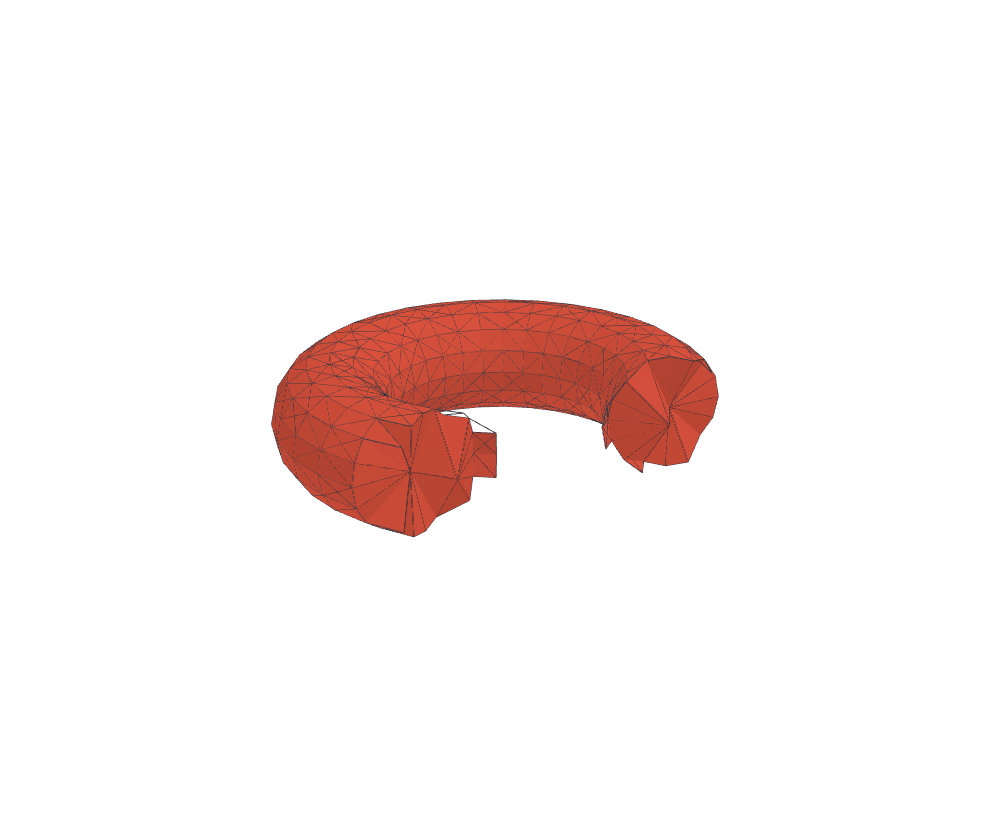
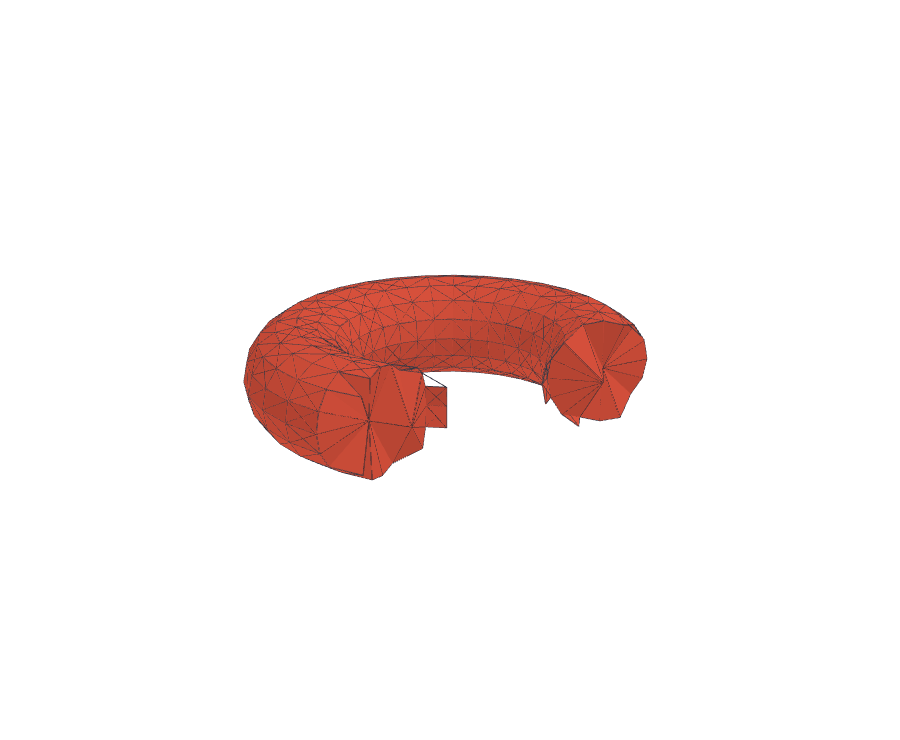
API: getrennte Fehlerschranken tol_edge/tol_surf (rel. Sagitta, Default 1e-2) und per-Dimension maxh_edge/maxh_surf/maxh_vol -- ersetzt surface_deflection; Python-settable; wirksam (Box maxh_surf/vol, Zylinder-tol verifiziert)

Changed region(s): [[0.2489, 0.3419, 0.7156, 0.6527], [0.6222, 0.5595, 0.6533, 0.5905]]

diff --git a/crates/rapidmesh-tet/src/conform.rs b/crates/rapidmesh-tet/src/conform.rs
@@ -245,12 +245,23 @@ pub struct MeshParams {
     /// gradient. Off by default (it shifts sites near curved boundaries, which
     /// the exact-volume fixtures cannot absorb); on for adaptive meshes.
     pub density_weighted: bool,
-    /// Surface sagitta deflection bound (relative): a curved facet edge of
-    /// length `h` on a surface of principal radius `R` deviates by `~ h^2/(8R)`;
-    /// bounding the RELATIVE sagitta `eps/R <= this` sizes curved surfaces by
-    /// `h = R * sqrt(8 * this)`, scale-invariant (constant facets per arc). The
-    /// normalized error knob replacing the old magic chord fraction.
-    pub surface_deflection: f64,
+    /// Relative chord (sagitta) tolerance for curved EDGES: a curve of radius `R`
+    /// is sampled at `h = R*sqrt(8*tol_edge)`, so the chord deviates by at most
+    /// `tol_edge * R`. Scale-invariant (constant segments per arc). Default 1e-2.
+    pub tol_edge: f64,
+    /// Relative chord (sagitta) tolerance for curved SURFACES, the 2D analogue of
+    /// [`MeshParams::tol_edge`]: a facet on a surface of principal radius `R` is
+    /// sized `h = R*sqrt(8*tol_surf)`. Default 1e-2. (There is no volume
+    /// tolerance: the volume size follows from the surface.)
+    pub tol_surf: f64,
+    /// Maximum element edge length on EDGES (1-cells), combined with the global
+    /// [`MeshParams::maxh`] as `min(maxh, maxh_edge)`. `INFINITY` = no extra cap.
+    pub maxh_edge: f64,
+    /// Maximum element edge length on SURFACES (2-cells); `min(maxh, maxh_surf)`.
+    pub maxh_surf: f64,
+    /// Maximum element edge length in the VOLUME (3-cells); `min(maxh, maxh_vol)`.
+    /// Per-region overrides come from [`MeshParams::region_maxh`].
+    pub maxh_vol: f64,
 }
 
 impl Default for MeshParams {
@@ -265,8 +276,28 @@ impl Default for MeshParams {
             surface_maxh: Vec::new(),
             size_points: Vec::new(),
             density_weighted: false,
-            surface_deflection: 0.02,
+            tol_edge: 1e-2,
+            tol_surf: 1e-2,
+            maxh_edge: f64::INFINITY,
+            maxh_surf: f64::INFINITY,
+            maxh_vol: f64::INFINITY,
         }
+    }
+}
+
+impl MeshParams {
+    /// Effective edge-length cap on 1-cells: the global cap tightened by the
+    /// per-dimension edge cap.
+    pub fn edge_cap(&self) -> f64 {
+        self.maxh.min(self.maxh_edge)
+    }
+    /// Effective edge-length cap on 2-cells (surfaces).
+    pub fn surf_cap(&self) -> f64 {
+        self.maxh.min(self.maxh_surf)
+    }
+    /// Effective edge-length cap in the 3-cell (volume).
+    pub fn vol_cap(&self) -> f64 {
+        self.maxh.min(self.maxh_vol)
     }
 }
 

diff --git a/python/python_src/rapidmesh/geometry.py b/python/python_src/rapidmesh/geometry.py
@@ -802,7 +802,11 @@ class Geometry:
         max_points: int = 500_000,
         grading: float | None = None,
         density_weighted: bool = False,
-        surface_deflection: float = 0.02,
+        tol_edge: float = 1e-2,
+        tol_surf: float = 1e-2,
+        maxh_edge: float = math.inf,
+        maxh_surf: float = math.inf,
+        maxh_vol: float = math.inf,
     ) -> Mesh:
         """Assembles the exact conforming arrangement of every solid and
         sheet, meshes it, and runs quality optimization.
@@ -827,11 +831,16 @@ class Geometry:
             sizing field settles into a smooth gradient. Off by default (it
             shifts sites near curved boundaries, which the exact-volume path
             cannot absorb); enable for adaptive (curvature/error-bound) meshes.
-        surface_deflection : float
-            relative sagitta error bound for curved surfaces: a curved facet of
-            radius ``R`` is sized ``h = R * sqrt(8 * surface_deflection)``, so
-            the chord deviates by at most ``surface_deflection * R``. Smaller =
-            finer curved surfaces (scale-invariant, ~constant facets per arc).
+        tol_edge, tol_surf : float
+            relative chord (sagitta) tolerance for curved EDGES and SURFACES: an
+            entity of radius ``R`` is sized ``h = R * sqrt(8 * tol)``, so the
+            chord deviates by at most ``tol * R`` (scale-invariant, ~constant
+            facets per arc). Default 1e-2 (1%); 1e-4 is very fine. There is no
+            volume tolerance: the volume size follows from the surface.
+        maxh_edge, maxh_surf, maxh_vol : float
+            maximum element edge length per dimension (edges / surfaces /
+            volume), each combined with ``maxh`` as ``min(maxh, maxh_dim)``.
+            Default ``inf`` (only ``maxh`` applies).
         """
         h = maxh if maxh is not None else self._maxh
         g = grading if grading is not None else self._grading
@@ -844,7 +853,11 @@ class Geometry:
             [(list(pt), ph) for pt, ph in self._size_points],
             [(s, sh) for s, sh in sorted(self._surface_maxh.items())],
             density_weighted,
-            surface_deflection,
+            tol_edge,
+            tol_surf,
+            maxh_edge,
+            maxh_surf,
+            maxh_vol,
         )
         solids = [
             {"region": r, "label": self._solid_labels.get(i)}
@@ -857,6 +870,11 @@ class Geometry:
         *,
         maxh: float | None = None,
         grading: float | None = None,
+        tol_edge: float = 1e-2,
+        tol_surf: float = 1e-2,
+        maxh_edge: float = math.inf,
+        maxh_surf: float = math.inf,
+        maxh_vol: float = math.inf,
     ) -> SurfaceMesh:
         """Surface-only export: assembles the exact arrangement and meshes
         only its boundary surface (region interfaces, outer boundary, embedded
@@ -880,6 +898,11 @@ class Geometry:
             [(t, fh) for t, fh in sorted(self._face_maxh.items())],
             [(list(pt), ph) for pt, ph in self._size_points],
             [(s, sh) for s, sh in sorted(self._surface_maxh.items())],
+            tol_edge,
+            tol_surf,
+            maxh_edge,
+            maxh_surf,
+            maxh_vol,
         )
         solids = [
             {"region": r, "label": self._solid_labels.get(i)}

diff --git a/python/src/lib.rs b/python/src/lib.rs
@@ -320,7 +320,7 @@ impl SceneBuilder {
 
     /// Runs assembly, meshing, and optimization; returns the mesh.
     #[allow(clippy::too_many_arguments)]
-    #[pyo3(signature = (maxh, radius_edge, max_points, grading, face_maxh=vec![], size_points=vec![], surface_maxh=vec![], density_weighted=false, surface_deflection=0.02))]
+    #[pyo3(signature = (maxh, radius_edge, max_points, grading, face_maxh=vec![], size_points=vec![], surface_maxh=vec![], density_weighted=false, tol_edge=1e-2, tol_surf=1e-2, maxh_edge=f64::INFINITY, maxh_surf=f64::INFINITY, maxh_vol=f64::INFINITY))]
     fn mesh(
         &self,
         py: Python<'_>,
@@ -332,7 +332,11 @@ impl SceneBuilder {
         size_points: Vec<([f64; 3], f64)>,
         surface_maxh: Vec<(u32, f64)>,
         density_weighted: bool,
-        surface_deflection: f64,
+        tol_edge: f64,
+        tol_surf: f64,
+        maxh_edge: f64,
+        maxh_surf: f64,
+        maxh_vol: f64,
     ) -> PyMesh {
         let t0 = std::time::Instant::now();
         let timing = std::env::var_os("RAPIDMESH_TIMING").is_some();
@@ -353,7 +357,11 @@ impl SceneBuilder {
                 surface_maxh,
                 size_points,
                 density_weighted,
-                surface_deflection,
+                tol_edge,
+                tol_surf,
+                maxh_edge,
+                maxh_surf,
+                maxh_vol,
             };
             let tm = std::time::Instant::now();
             // Opt-in to the new boundary-constrained Stage-3 pipeline for
@@ -433,7 +441,7 @@ impl SceneBuilder {
     /// Returns just the closed boundary surface mesh. Volume-only params
     /// (`radius_edge`, `max_points`) do not apply.
     #[allow(clippy::too_many_arguments)]
-    #[pyo3(signature = (maxh, grading, face_maxh=vec![], size_points=vec![], surface_maxh=vec![]))]
+    #[pyo3(signature = (maxh, grading, face_maxh=vec![], size_points=vec![], surface_maxh=vec![], tol_edge=1e-2, tol_surf=1e-2, maxh_edge=f64::INFINITY, maxh_surf=f64::INFINITY, maxh_vol=f64::INFINITY))]
     fn surface_mesh(
         &self,
         py: Python<'_>,
@@ -442,6 +450,11 @@ impl SceneBuilder {
         face_maxh: Vec<(u32, f64)>,
         size_points: Vec<([f64; 3], f64)>,
         surface_maxh: Vec<(u32, f64)>,
+        tol_edge: f64,
+        tol_surf: f64,
+        maxh_edge: f64,
+        maxh_surf: f64,
+        maxh_vol: f64,
     ) -> PySurfaceMesh {
         let t0 = std::time::Instant::now();
         rapidmesh_exact::log::clear();
@@ -457,7 +470,11 @@ impl SceneBuilder {
                 surface_maxh,
                 size_points,
                 density_weighted: false,
-                surface_deflection: 0.02,
+                tol_edge,
+                tol_surf,
+                maxh_edge,
+                maxh_surf,
+                maxh_vol,
             };
             surface_mesh(&plc, &params)
         });

diff --git a/crates/rapidmesh-tet/tests/conform.rs b/crates/rapidmesh-tet/tests/conform.rs
@@ -176,7 +176,11 @@ fn sized_box_respects_maxh_and_quality() {
         surface_maxh: Vec::new(),
         size_points: Vec::new(),
         density_weighted: false,
-        surface_deflection: 0.02,
+        tol_edge: 1e-2,
+        tol_surf: 1e-2,
+        maxh_edge: f64::INFINITY,
+        maxh_surf: f64::INFINITY,
+        maxh_vol: f64::INFINITY,
     };
     let mut mesh = mesh_plc_with(&plc, &params);
     let before = quality_stats(&mesh);
@@ -232,7 +236,11 @@ fn sized_em_scene_stays_exact_and_conforming() {
         surface_maxh: Vec::new(),
         size_points: Vec::new(),
         density_weighted: false,
-        surface_deflection: 0.02,
+        tol_edge: 1e-2,
+        tol_surf: 1e-2,
+        maxh_edge: f64::INFINITY,
+        maxh_surf: f64::INFINITY,
+        maxh_vol: f64::INFINITY,
     };
     let mut mesh = mesh_plc_with(&plc, &params);
     let before = quality_stats(&mesh);
@@ -279,7 +287,11 @@ fn per_region_sizing_creates_density_transition() {
         surface_maxh: Vec::new(),
         size_points: Vec::new(),
         density_weighted: false,
-        surface_deflection: 0.02,
+        tol_edge: 1e-2,
+        tol_surf: 1e-2,
+        maxh_edge: f64::INFINITY,
+        maxh_surf: f64::INFINITY,
+        maxh_vol: f64::INFINITY,
     };
     let mut mesh = mesh_plc_with(&plc, &params);
     optimize(
@@ -490,7 +502,11 @@ fn size_points_refine_locally() {
         maxh: 1.5,
         size_points: vec![([2.0, 2.0, 2.0], 0.2)],
         density_weighted: false,
-        surface_deflection: 0.02,
+        tol_edge: 1e-2,
+        tol_surf: 1e-2,
+        maxh_edge: f64::INFINITY,
+        maxh_surf: f64::INFINITY,
+        maxh_vol: f64::INFINITY,
         grading: 0.5,
         ..MeshParams::default()
     };

diff --git a/crates/rapidmesh/src/bin/bench.rs b/crates/rapidmesh/src/bin/bench.rs
@@ -116,7 +116,11 @@ fn main() {
             surface_maxh: Vec::new(),
             size_points: Vec::new(),
             density_weighted: false,
-            surface_deflection: 0.02,
+            tol_edge: 1e-2,
+            tol_surf: 1e-2,
+            maxh_edge: f64::INFINITY,
+            maxh_surf: f64::INFINITY,
+            maxh_vol: f64::INFINITY,
         };
         records.push(run_one(
             bs.name,
@@ -191,7 +195,11 @@ fn main() {
             surface_maxh: Vec::new(),
             size_points: Vec::new(),
             density_weighted: false,
-            surface_deflection: 0.02,
+            tol_edge: 1e-2,
+            tol_surf: 1e-2,
+            maxh_edge: f64::INFINITY,
+            maxh_surf: f64::INFINITY,
+            maxh_vol: f64::INFINITY,
         };
         records.push(run_one(
             &name,

diff --git a/crates/rapidmesh-tet/src/cvt.rs b/crates/rapidmesh-tet/src/cvt.rs
@@ -616,7 +616,7 @@ pub fn mesh(plc: &TaggedPlc, params: &MeshParams) -> TetMesh {
     let surf_pos: Vec<V3> = sites[..n_surf].iter().map(|s| s.pos()).collect();
     let vol_sources: Vec<(V3, f64)> =
         (0..n_surf).map(|i| (surf_pos[i], domain.h_at(surf_pos[i]).max(1e-9))).collect();
-    let vol_field = crate::sizefield::SizeField::new(vol_sources, grad, params.maxh);
+    let vol_field = crate::sizefield::SizeField::new(vol_sources, grad, params.vol_cap());
     // A per-region size cap: `region_maxh` is a region-WIDE size that the surface
     // field (which grows coarse from the boundary inward) does not enforce in the
     // interior, so cap the volume size by the region of the query point.
@@ -1005,7 +1005,7 @@ pub fn mesh_cdt(plc: &TaggedPlc, params: &MeshParams) -> TetMesh {
             .unwrap_or(params.maxh)
             .min(params.maxh)
     };
-    let hloc = |p: V3| domain.h_at(p).min(region_cap(domain.region_at(p))).max(1e-9);
+    let hloc = |p: V3| domain.h_at(p).min(region_cap(domain.region_at(p))).min(params.vol_cap()).max(1e-9);
     let step = (0.7 * spacing).max(1e-9);
     let span = [hi[0] - lo[0], hi[1] - lo[1], hi[2] - lo[2]];
     let ncell = (0.6 * spacing).max(1e-9);
@@ -1393,7 +1393,7 @@ pub fn surface_mesh(plc: &TaggedPlc, params: &MeshParams) -> SurfaceMesh {
         let inside2 =
             |uv: [f64; 2]| point_in_patch(plc, patch, &Point3::Explicit(lift3(uv, drop, p0, n)));
         let step = SURFACE_OVERSAMPLE * domain.finest();
-        let target = |uv: [f64; 2]| SURFACE_OVERSAMPLE * domain.h_at(lift3(uv, drop, p0, n));
+        let target = |uv: [f64; 2]| SURFACE_OVERSAMPLE * domain.h_at(lift3(uv, drop, p0, n)).min(params.surf_cap());
         for uv in cvt_fill(&loc2[..nb], lo2, hi2, step, target, SURF_LLOYD_ITERS, inside2, params.density_weighted) {
             points.push(lift3(uv, drop, p0, n));
             loc2.push(uv);
@@ -1501,7 +1501,7 @@ pub fn surface_mesh(plc: &TaggedPlc, params: &MeshParams) -> SurfaceMesh {
         // Curvature/volume-error bias: the finest curvature radius over the group
         // sets the grid step (so the scatter is fine enough to honor it); the
         // per-point target is the finer of the domain field and the curvature cap.
-        let chord = (8.0 * params.surface_deflection).sqrt();
+        let chord = (8.0 * params.tol_surf).sqrt();
         let hc_min = gverts
             .iter()
             .map(|&v| chart.curvature_radius(chart.to_uv(points[v])))
@@ -1512,7 +1512,7 @@ pub fn surface_mesh(plc: &TaggedPlc, params: &MeshParams) -> SurfaceMesh {
         let target = |uv: [f64; 2]| {
             let xyz = chart.to_xyz(uv);
             let hc = chart.curvature_radius(uv) * chord;
-            SURFACE_OVERSAMPLE * domain.h_at(xyz).min(hc)
+            SURFACE_OVERSAMPLE * domain.h_at(xyz).min(hc).min(params.surf_cap())
         };
         for uv in cvt_fill(&loc2[..nb], lo2, hi2, step, target, SURF_LLOYD_ITERS, inside2, params.density_weighted) {
             points.push(chart.to_xyz(uv));

diff --git a/crates/rapidmesh-tet/src/seed.rs b/crates/rapidmesh-tet/src/seed.rs
@@ -129,7 +129,11 @@ mod tests {
             surface_maxh: Vec::new(),
             size_points,
             density_weighted: false,
-            surface_deflection: 0.02,
+            tol_edge: 1e-2,
+            tol_surf: 1e-2,
+            maxh_edge: f64::INFINITY,
+            maxh_surf: f64::INFINITY,
+            maxh_vol: f64::INFINITY,
         }
     }
 

diff --git a/crates/rapidmesh/src/bin/export_meshes.rs b/crates/rapidmesh/src/bin/export_meshes.rs
@@ -27,7 +27,11 @@ fn main() {
             surface_maxh: Vec::new(),
             size_points: Vec::new(),
             density_weighted: false,
-            surface_deflection: 0.02,
+            tol_edge: 1e-2,
+            tol_surf: 1e-2,
+            maxh_edge: f64::INFINITY,
+            maxh_surf: f64::INFINITY,
+            maxh_vol: f64::INFINITY,
         };
         let mut mesh: TetMesh = mesh_plc_with(&plc, &params);
         let opt = OptimizeParams {

diff --git a/crates/rapidmesh-tet/src/brep_mesh.rs b/crates/rapidmesh-tet/src/brep_mesh.rs
@@ -395,7 +395,7 @@ pub fn surface_sites(
     // The geometry size field H (finite even when params.maxh is INFINITY -- it
     // falls back to diag/8). The surface is placed at OVERSAMPLE*H, the volume at
     // H, so the surface is finer than the volume (the conformity requirement).
-    let h_at = |p: V3| domain.h_at(p).max(1e-9);
+    let h_at = |p: V3| domain.h_at(p).min(params.surf_cap()).max(1e-9);
     let mut sites: Vec<Site> = Vec::new();
     let mut point_tile: Vec<u32> = Vec::new();
 
@@ -441,7 +441,7 @@ pub fn surface_sites(
             let cap = OVERSAMPLE * edge.chain.iter().map(|&p| h_at(p)).fold(f64::INFINITY, f64::min);
             match edge_curve(edge) {
                 Some(curve) => {
-                    let ps = distribute(&*curve, params.surface_deflection, cap, grad);
+                    let ps = distribute(&*curve, params.tol_edge, cap.min(params.maxh_edge), grad);
                     ps.iter().map(|&s| curve.point_at(s)).collect()
                 }
                 None => edge.chain.clone(),

diff --git a/crates/rapidmesh-tet/src/domain.rs b/crates/rapidmesh-tet/src/domain.rs
@@ -184,7 +184,7 @@ impl DomainTree {
         // refines the VOLUME near tightly curved boundaries (an airfoil nose), so
         // the surrounding region holds the fine on-surface nodes; the grading
         // term then coarsens away. A gentle curve (R large) leaves `maxh` intact.
-        let chord = (8.0 * params.surface_deflection).sqrt();
+        let chord = (8.0 * params.tol_surf).sqrt();
         let curvature_target = |i: usize| -> f64 {
             let kind = &plc.surfaces[plc.surface_refs[i].0 as usize];
             crate::project::surface_curvature_radius(kind, facet_centroid(i)) * chord
@@ -248,7 +248,7 @@ impl DomainTree {
         //     point-to-segment graded distance). Filled by WP-R3; empty here.
         //   - point sources: `size_points`.
         // Adding a feature kind is just another graded source in `h_of`.
-        let edge_segments: Vec<(Tri, f64)> = edge_sizing_segments(plc, params.surface_deflection);
+        let edge_segments: Vec<(Tri, f64)> = edge_sizing_segments(plc, params.tol_edge);
         let edge_bvh = FacetBvh::build(&edge_segments);
 
         // Nearest-facet distance (for the uniform-leaf region cache).